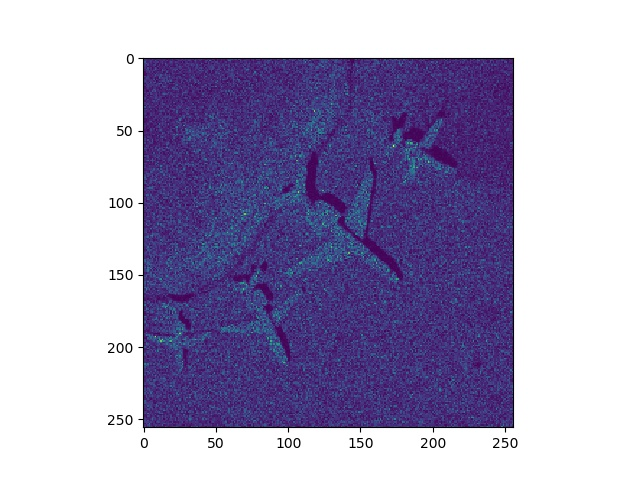
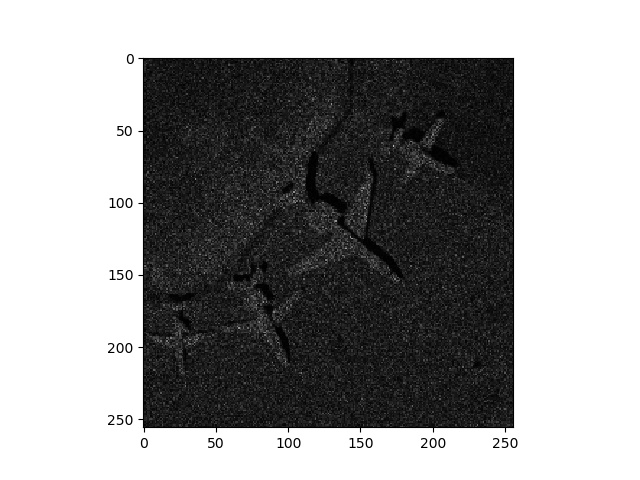
finished dataloader and its testing

diff --git a/Despeckling/pix2pix/data_loader.py b/Despeckling/pix2pix/data_loader.py
@@ -16,6 +16,8 @@ class noise_simul():
     def __init__(self, img, L=4):
         '''
         img: numpy array, H*W*1
+        !!!
+        Parameter need to be considered: L, max_n, length
         '''
         self.img = img
         self.img_size=img.size
@@ -74,7 +76,9 @@ class DataLoader():
         
         for img_name in batch_images:
             img_o = img_to_array(load_img(os.path.join(self.dataset_dir,img_name),color_mode='grayscale'))
-            img_n = noise_simul(img_o)
+            noise_simulation=noise_simul(img_o)
+            img_n=noise_simulation()
+            # img_n=img_n[:,:,0]
 
             # If training => do random flip
             if not is_testing and np.random.random() < 0.5:
@@ -83,71 +87,35 @@ class DataLoader():
 
             imgs_o.append(img_o)
             imgs_n.append(img_n)
-
+        # 归一化
         imgs_o = np.array(imgs_o)/127.5 - 1.
         imgs_n = np.array(imgs_n)/127.5 - 1.
         return imgs_n,imgs_o
 
     def load_batch(self, batch_size=1, is_testing=False): #训练用
         data_type = "train" if not is_testing else "test"
-        path_sar = os.path.join('/home1/dataset/sar-op/subset_spring_90/',data_type,'sar','s1_90')
-        sar_list=os.listdir(path_sar)
-        sar_list.sort()
-        path_op=os.path.join('/home1/dataset/sar-op/subset_spring_90/',data_type,'op','s2_90')
-        op_list=os.listdir(path_op)
-        op_list.sort()
-        self.n_batches = int(len(sar_list) / batch_size)
+        listfile = data_type+'set.txt'
+        image_names = [l.strip().split(None, 1)[0] for l in open(os.path.join(self.dataset_dir, listfile)).readlines()]
+        np.random.shuffle(image_names)
+        self.n_batches = int(len(image_names) / batch_size)
 
         for i in range(self.n_batches-1):
-            batch_sar = sar_list[i*batch_size:(i+1)*batch_size]
-            batch_op = op_list[i*batch_size:(i+1)*batch_size]
-            imgs_sar, imgs_op = [], []
-            for (img_sar,img_op) in zip(batch_sar,batch_op):
-                img_sar = img_to_array(load_img(os.path.join(path_sar,img_sar),color_mode='grayscale'))
-                img_op=img_to_array(load_img(os.path.join(path_op,img_op),color_mode='rgb'))
-
+            batch_o = image_names[i*batch_size:(i+1)*batch_size]
+            imgs_o, imgs_n = [], []
+            for img_o in batch_o:
+                img_o = img_to_array(load_img(os.path.join(self.dataset_dir,img_o),color_mode='grayscale'))
+                noise_simulation=noise_simul(img_o)
+                img_n=noise_simulation()
 
                 if not is_testing and np.random.random() > 0.5:
-                        img_sar = np.fliplr(img_sar)
-                        img_op = np.fliplr(img_op)
+                        img_o = np.fliplr(img_o)
+                        img_n = np.fliplr(img_n)
 
-                imgs_sar.append(img_sar)
-                imgs_op.append(img_op)
+                imgs_o.append(img_o)
+                imgs_n.append(img_n)
 
-            imgs_sar = np.array(imgs_sar)/127.5 - 1.
-            imgs_op = np.array(imgs_op)/127.5 - 1.
+            imgs_o = np.array(imgs_o)/127.5 - 1.
+            imgs_n = np.array(imgs_n)/127.5 - 1.
             # print(imgs_sar.shape)
-            yield imgs_op,imgs_sar
+            yield imgs_n,imgs_o
 
-
-    # def imread(self, path):
-    #     return scipy.misc.imread(path, mode='RGB').astype(np.float)
-
-if __name__ == '__main__':
-    os.makedirs('test_dataloder/', exist_ok=True)
-    r, c = 3,2
-    datalo=DataLoader()
-    imgs_A, imgs_B = datalo.load_data(batch_size=3, is_testing=True)
-
-    # gen_imgs = np.concatenate([imgs_B, fake_A, imgs_A])
-
-    # Rescale images 0 - 1
-    # gen_imgs = 0.5 * gen_imgs + 0.5
-    imgs_B =0.5 * imgs_B + 0.5
-    imgs_A=0.5 * imgs_A + 0.5
-    print('sample',imgs_B.shape,imgs_A.shape)
-    gen_imgs = [imgs_B,imgs_A]
-
-    titles = ['Condition', 'Original']
-    fig, axs = plt.subplots(r, c)
-    for i in range(r): #batch
-        for j in range(c):
-            if j ==0:
-                axs[i,j].imshow(gen_imgs[j][i][:,:,0],cmap='gray')
-            else:
-                axs[i,j].imshow(gen_imgs[j][i])
-            axs[i, j].set_title(titles[j])
-            axs[i,j].axis('off')
-    fig.savefig("test_dataloder/testload.png")
-    plt.close()
-        

diff --git a/Despeckling/pix2pix/test_for_dataloader.py b/Despeckling/pix2pix/test_for_dataloader.py
@@ -1,0 +1,57 @@
+from data_loader import DataLoader
+import matplotlib.pyplot as plt
+
+
+
+
+datadir='C:\\travail\\dataset\\UCMerced_LandUse\\Images'
+
+datalo=DataLoader(datadir)
+
+### test for load_data
+
+# imgs_n, imgs_o = datalo.load_data(batch_size=3, is_testing=True)
+
+
+# imgs_n =0.5 * imgs_n + 0.5
+# imgs_o=0.5 * imgs_o + 0.5
+# print('sample',imgs_n.shape,imgs_o.shape)
+# gen_imgs = [imgs_n,imgs_o]
+
+# titles = ['n', 'o']
+# r, c = 3,2
+# fig, axs = plt.subplots(r, c, figsize=(20, 30))
+# for i in range(r): #batch
+#     for j in range(c):
+#         if j==0:
+#             axs[i,j].imshow(gen_imgs[j][i][:,:,0]*2,cmap='gray')
+#         else:
+#             axs[i,j].imshow(gen_imgs[j][i][:,:,0],cmap='gray')
+#         axs[i, j].set_title(titles[j])
+#         axs[i,j].axis('off')
+# fig.savefig("testload.png")
+# plt.close()
+        
+### test for load_batch
+batch_i=0
+for (imgs_n, imgs_o) in datalo.load_batch(batch_size=3, is_testing=False):
+    batch_i+=1
+    imgs_n =0.5 * imgs_n + 0.5
+    imgs_o=0.5 * imgs_o + 0.5
+    print('sample',imgs_n.shape,imgs_o.shape)
+    gen_imgs = [imgs_n,imgs_o]
+    titles = ['n', 'o']
+    r, c = 3,2
+    fig, axs = plt.subplots(r, c, figsize=(20, 30))
+    for i in range(r): #batch
+        for j in range(c):
+            if j==0:
+                axs[i,j].imshow(gen_imgs[j][i][:,:,0]*2,cmap='gray')
+            else:
+                axs[i,j].imshow(gen_imgs[j][i][:,:,0],cmap='gray')
+            axs[i, j].set_title(titles[j])
+            axs[i,j].axis('off')
+    fig.savefig("testload%d.png" % batch_i)
+    plt.close()
+    if batch_i>20:
+        break

diff --git a/Despeckling/pix2pix/test_for_noise_simul.py b/Despeckling/pix2pix/test_for_noise_simul.py
@@ -8,16 +8,13 @@ img = img_to_array(load_img(img_name,color_mode='grayscale'))
 noise_simul=noise_simul(img)
 img_n=noise_simul()
 img_n=img_n[:,:,0]
-img_n=np.round(img_n)
-img_n=img_n.astype(np.int32)
-plt.imshow(img_n,cmap='gray')
-plt.show()
+# img_n=np.round(img_n)
+# img_n=img_n.astype(np.int32)
+plt.imshow(img_n,cmap='gray',clim=(0,255)) #!!!important, use clim, the behavior of matplotlib is diff from matlab
+# plt.show()
 plt.savefig('noised.jpg')
 
-plt.imshow(img_n*2,cmap='gray')
-plt.show()
+plt.imshow(img_n*2,cmap='gray',clim=(0,255))
+# plt.show()
 plt.savefig('noised2.jpg')
 
-# !!!!!!!!!!!!!!!!!!!!!!!!!!!!!!!!!!!!!
-# The results are the same.
-# I think it is because the float value are all mapped to 0-1 whatever the original range is.

diff --git a/Despeckling/pix2pix/pix2pix.py b/Despeckling/pix2pix/pix2pix.py
@@ -166,7 +166,7 @@ class Pix2Pix():
                 d_loss_real = self.discriminator.train_on_batch([imgs_A, imgs_B], valid)
                 d_loss_fake = self.discriminator.train_on_batch([fake_A, imgs_B], fake)
                 d_loss = 0.5 * np.add(d_loss_real, d_loss_fake)
-
+ 
                 # -----------------
                 #  Train Generator
                 # -----------------
